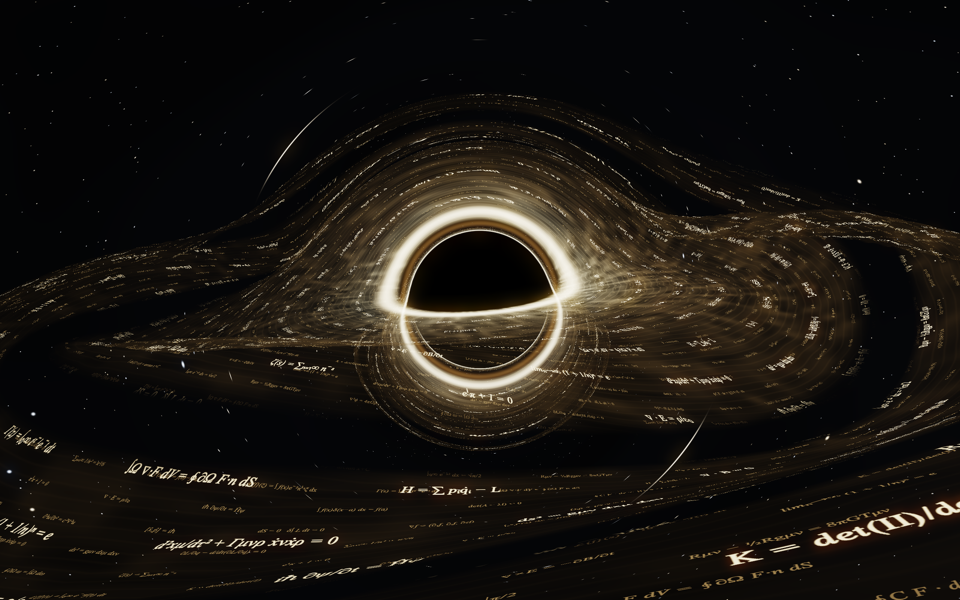
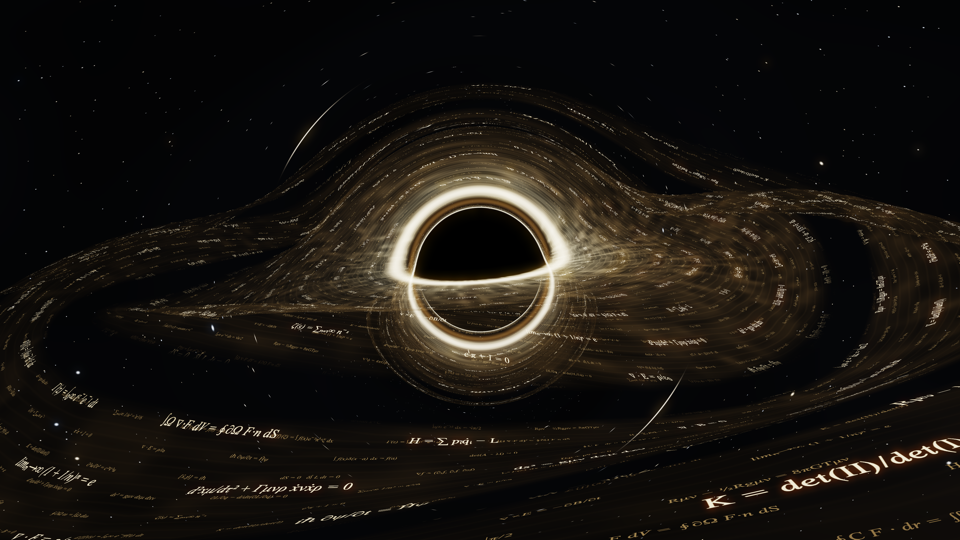
feat: render Gravity ultra at 4K with 120 FPS target

diff --git a/Sources/GravitySceneRenderer/main.swift b/Sources/GravitySceneRenderer/main.swift
@@ -59,12 +59,12 @@ final class GravityRenderer: NSObject, MTKViewDelegate {
         descriptor.fragmentFunction = library.makeFunction(name: "present")
         descriptor.colorAttachments[0].pixelFormat = .bgra8Unorm
         present = try device.makeRenderPipelineState(descriptor: descriptor)
-        atlas = try Self.makeAtlas(device)
+        atlas = try Self.makeAtlas(device, scale: preset == .ultra ? 2 : 1)
         super.init()
     }
 
-    static func makeAtlas(_ device: MTLDevice) throws -> MTLTexture {
-        let width = 2048, height = 1024
+    static func makeAtlas(_ device: MTLDevice, scale: Int) throws -> MTLTexture {
+        let width = 2048 * scale, height = 1024 * scale
         let expressions = [
             "∮∂Ω ω = ∫Ω dω", "∇²φ = 4πGρ", "Rμν − ½Rgμν = 8πGTμν", "∫₀∞ e⁻ˣ² dx = √π/2",
             "iℏ ∂ψ/∂t = Ĥψ", "∇ · E = ρ/ε₀", "eⁱπ + 1 = 0", "ζ(s) = ∑ₙ₌₁∞ n⁻ˢ",
@@ -82,6 +82,7 @@ final class GravityRenderer: NSObject, MTKViewDelegate {
                 throw RenderError.unavailable("Formula atlas")
             }
             cg.setFillColor(gray: 0, alpha: 1); cg.fill(CGRect(x: 0,y: 0,width: width,height: height))
+            cg.scaleBy(x: CGFloat(scale), y: CGFloat(scale))
             for (i, text) in expressions.enumerated() {
                 let font = CTFontCreateWithName("TimesNewRomanPS-ItalicMT" as CFString, 36, nil)
                 let string = NSAttributedString(string: text, attributes: [
@@ -163,9 +164,8 @@ final class GravityRenderer: NSObject, MTKViewDelegate {
         guard CGImageDestinationFinalize(destination) else { throw RenderError.unavailable("Snapshot write") }
     }
     func mtkView(_ view: MTKView, drawableSizeWillChange size: CGSize) {
-        let ratio = size.height/max(size.width,1)
-        let width = min(preset.width,Int(size.width))
-        do { try resize(width: max(16,width),height: max(16,Int(Double(width)*ratio))) }
+        let dimensions = preset.renderSize(width: size.width, height: size.height)
+        do { try resize(width: dimensions.width, height: dimensions.height) }
         catch { event("error",["message":String(describing:error)]) }
     }
     func draw(in view: MTKView) {
@@ -221,7 +221,8 @@ final class App: NSObject, NSApplicationDelegate {
             window.alphaValue=deferred ? 0 : 1;window.orderFrontRegardless()
             _ = try renderer.render(time: 0)
             renderer.first = false
-            event("scene-ready")
+            event("scene-ready", ["renderWidth": renderer.output.width, "renderHeight": renderer.output.height,
+                                  "targetFPS": preset.fps, "displayMaximumFPS": screen.maximumFramesPerSecond])
             event("first-frame-presented")
             if CommandLine.arguments.contains("--control-stdin") { startControl() }
             if let seconds=argument("--duration"),let duration=Double(seconds),duration>0 {
@@ -231,7 +232,7 @@ final class App: NSObject, NSApplicationDelegate {
     }
     func exportFrames(_ path:String) throws {
         let width=Int(argument("--width") ?? "\(preset.width)") ?? preset.width
-        let height=Int(argument("--height") ?? "\(width*10/16)") ?? width*10/16
+        let height=Int(argument("--height") ?? "\(width*9/16)") ?? width*9/16
         let frames=min(600,max(1,Int(argument("--frames") ?? "1") ?? 1))
         try renderer.resize(width:width,height:height)
         var timings:[Double]=[]

diff --git a/Sources/GravitySceneCore/GravityScene.swift b/Sources/GravitySceneCore/GravityScene.swift
@@ -7,10 +7,20 @@ public struct GravityScene: Codable, Sendable {
     public let preset: Preset
     public enum Preset: String, Codable, Sendable {
         case ultra, efficient
-        public var width: Int { self == .ultra ? 2560 : 1600 }
-        public var fps: Int { 30 }
+        public var width: Int { self == .ultra ? 3840 : 1600 }
+        /// Ultra renders at 4K even on a smaller panel, then downsamples for
+        /// cleaner formulas. Preserve aspect ratio and bound portrait textures.
+        public func renderSize(width: Double, height: Double) -> (width: Int, height: Int) {
+            guard width.isFinite, height.isFinite, width > 0, height > 0 else {
+                return self == .ultra ? (3840, 2160) : (1600, 900)
+            }
+            let scale = self == .ultra ? 3840 / max(width, height)
+                                      : min(1, 1600 / width, 4096 / height)
+            return (max(16, Int((width * scale).rounded())), max(16, Int((height * scale).rounded())))
+        }
+        public var fps: Int { self == .ultra ? 120 : 30 }
         public var steps: Int { self == .ultra ? 150 : 90 }
-        public var title: String { self == .ultra ? "引力之旅 · 极致画质" : "引力之旅 · 性能优先" }
+        public var title: String { self == .ultra ? "引力之旅 · 极致画质 4K" : "引力之旅 · 性能优先" }
     }
     public static func load(_ url: URL) throws -> GravityScene? {
         let values = try url.resourceValues(forKeys: [.fileSizeKey, .isRegularFileKey, .isSymbolicLinkKey])

diff --git a/Tests/ScenePlaybackChecks.swift b/Tests/ScenePlaybackChecks.swift
@@ -12,6 +12,16 @@ import UniformTypeIdentifiers
             count += 1
             print("PASS: " + name)
         }
+        check(GravityScene.Preset.ultra.fps == 120 && GravityScene.Preset.efficient.fps == 30,
+              "极致版目标120FPS，性能版保持30FPS")
+        let ultraSize = GravityScene.Preset.ultra.renderSize(width: 1920, height: 1080)
+        check(ultraSize.width == 3840 && ultraSize.height == 2160, "低于4K的显示器仍以真实4K离屏渲染")
+        let tallSize = GravityScene.Preset.ultra.renderSize(width: 1440, height: 2560)
+        check(tallSize.width == 2160 && tallSize.height == 3840, "4K竖屏保持比例并限制纹理长边")
+        let nativeAspect = GravityScene.Preset.ultra.renderSize(width: 2400, height: 1600)
+        check(nativeAspect.width == 3840 && nativeAspect.height == 2560, "4K保留非16比9屏幕的完整画面")
+        let efficientSize = GravityScene.Preset.efficient.renderSize(width: 2400, height: 1600)
+        check(efficientSize.width == 1600, "性能版保留1600宽上限")
         let nativeRoot = FileManager.default.temporaryDirectory.appendingPathComponent("gravity-checks-" + UUID().uuidString)
         try FileManager.default.createDirectory(at: nativeRoot.appendingPathComponent("native"), withIntermediateDirectories: true)
         defer { try? FileManager.default.removeItem(at: nativeRoot) }

diff --git a/Sources/WallpaperUI/NativeLibraryView.swift b/Sources/WallpaperUI/NativeLibraryView.swift
@@ -336,7 +336,7 @@ struct NativeLibraryView: View {
                     VStack(alignment: .leading, spacing: 8) {
                         Label("自动播放 · 无交互", systemImage: "sparkles").font(.headline)
                         Text("金色吸积盘 · 高等数学公式 · 引力弯曲 · 纵深星空")
-                        Text(item.name == "01-Ultra" ? "极致画质：2560 宽 · 150 步光线积分 · 30 FPS" : "性能优先：1600 宽 · 90 步光线积分 · 30 FPS")
+                        Text(item.name == "01-Ultra" ? "极致画质 4K：3840 长边 · 高清公式 · 目标 120 FPS" : "性能优先：1600 宽 · 90 步光线积分 · 30 FPS")
                         Text("使用当前画面自动生成 Space 过渡底图。")
                     }.font(.caption).foregroundStyle(.secondary)
                 } else if let sceneRoot {

diff --git a/scripts/check-gravity-renderer.py b/scripts/check-gravity-renderer.py
@@ -37,7 +37,11 @@ with tempfile.TemporaryDirectory(prefix="gravity-protocol-") as directory:
             process.stdin.write(json.dumps(command).encode() + b"\n")
             process.stdin.flush()
         try:
-            wait_event("scene-ready")
+            ready = wait_event("scene-ready")
+            print(json.dumps(ready, sort_keys=True), flush=True)
+            if preset == "ultra":
+                assert max(ready["renderWidth"], ready["renderHeight"]) == 3840
+                assert ready["targetFPS"] == 120
             wait_event("first-frame-presented")
             snapshots=[]
             for index in range(2):

diff --git a/引力之旅-阶段2BX-4K与120帧目标.md b/引力之旅-阶段2BX-4K与120帧目标.md
@@ -1,0 +1,23 @@
+# 阶段 2BX：4K 与 120 帧目标
+
+2026-09-26，WallpaperUI 0.2.22 预览。
+
+用户要求先升级4K，再提高至120帧。实现针对极致画质版；性能优先版仍为1600宽、90步、30FPS。
+
+- 极致版实际渲染长边3840像素，16:9为3840×2160，低分辨率显示器仍以4K超采样。非16:9保持比例，竖屏不超过纹理维度上限。
+- 公式纹理由2048×1024提升到4096×2048，保留150步曲线光线积分。
+- MTKView请求120FPS。丝绸高度场以角度加法恒等式去掉每一步atan2；r的五次幂改乘法链，保持渲染内容。
+- UI、预设描述、使用说明、成品目录与4K预览同步更新。
+
+验证：106项Scene检查通过；Release打包、固定证书签名、内置运行时和9项输入策略检查通过。两档真实隐藏窗口、动态图像、截图与父EOF清理通过。4K renderer ready报告 renderWidth=3840、renderHeight=2160、targetFPS=120，当前测试显示器displayMaximumFPS=60。
+
+本机Apple 测试机离屏，各预热5帧/统计120帧：
+
+| 输出 | GPU中位耗时 | P95 |
+| --- | ---: | ---: |
+| 3840×2160 | 29.64 ms | 29.84 ms |
+| 3840×2560 | 36.13 ms | 36.37 ms |
+
+120FPS预算为8.33ms，因此当前实现/硬件并未达到实际4K/120。当前显示器60Hz也限制可见独立帧率。没有降低内部渲染分辨率、没有降低150步预算、没有把目标值报告为实测帧率。未测长期温升、整机功耗或本次Space动画。
+
+DeepSeek独立复核只收到通用分辨率/GPU/显示器约束，没有私人路径；主代理核验其目标FPS不等于实际FPS的结论，以本机实测为准。沿用上一阶段只读GitHub研究，未执行网站命令或引入新依赖。

diff --git a/开发计划.md b/开发计划.md
@@ -41,6 +41,8 @@
 
 更新时间：2026-09-26
 
+最新迭代：阶段 2BX / 0.2.22。极致版改为真实 4K 长边渲染，高清公式纹理，目标帧率 120 FPS。当前 测试机 离屏 UHD 每帧约 29.64 ms，测试显示器 60 Hz，尚未达到实际 4K/120。性能版仍为 1600 宽 / 30 FPS。前一提交 784c6cd；细节见 `引力之旅-阶段2BX-4K与120帧目标.md`。
+
 最新迭代：阶段 2BW / 0.2.21。已制作并接入“引力之旅”极致画质与性能优先两个原生 Metal 场景，丝绸吸积盘、高等数学公式、纯自动播放。101 项 Scene、43 项后端、双版本真实隐藏渲染/截图/EOF 退出与 UI 播放切换通过。详情见 `引力之旅-阶段2BW-双版本原生场景.md`；以下旧阶段快照保留为历史。前一迭代提交 cb83b7d。
 
 - 项目路径：`/Users/you/Movies/壁纸UI/`
@@ -638,3 +640,11 @@ Git 提交哈希：
 - 本机 测试机 两档离屏 GPU 中位时间 15.63 / 4.49 ms；两档目标 30 FPS。
 - 验证和交付说明见 `引力之旅-阶段2BW-双版本原生场景.md`。不把短时实测当长期温升或人工 Space 动画验收。
 - 四份用户提供的未跟踪说明文档保持不变。当前迭代提交可由 Git 日志查阅。
+
+
+### 2026-09-26 阶段 2BX
+
+- 用户先要求提升至4K，随后要求120帧；已将极致版提升为3840长边和120FPS请求，性能版保持。
+- 原生4K超采样、公式纹理分辨率翻倍、等价三角恒等式与五次幂乘法优化。
+- 106项Scene检查通过；打包签名和9项运行时检查通过；真实子渲染器报告3840×2160、targetFPS=120、displayMaximumFPS=60。
+- GPU实测29.64ms/帧不满足120FPS预算，明确不宣称稳定4K/120；详见阶段报告。
